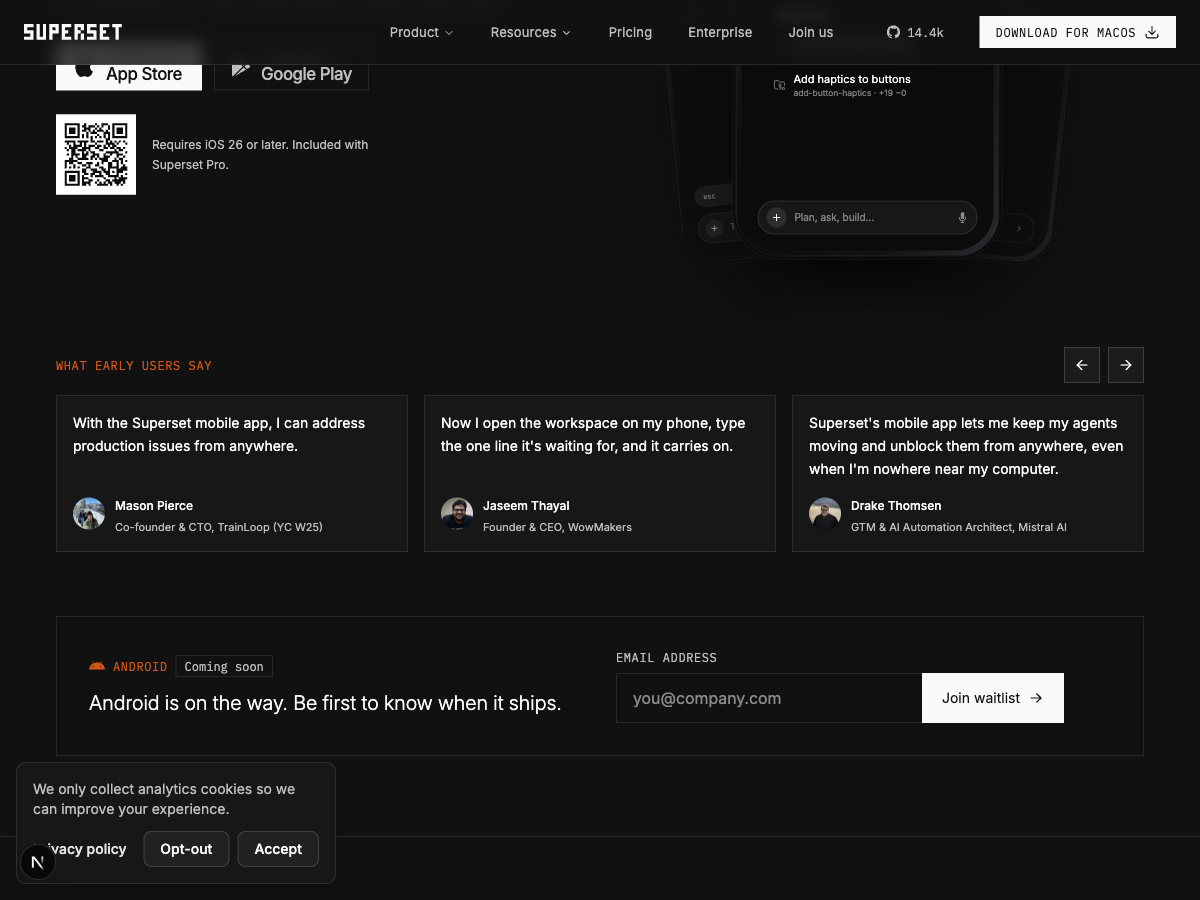
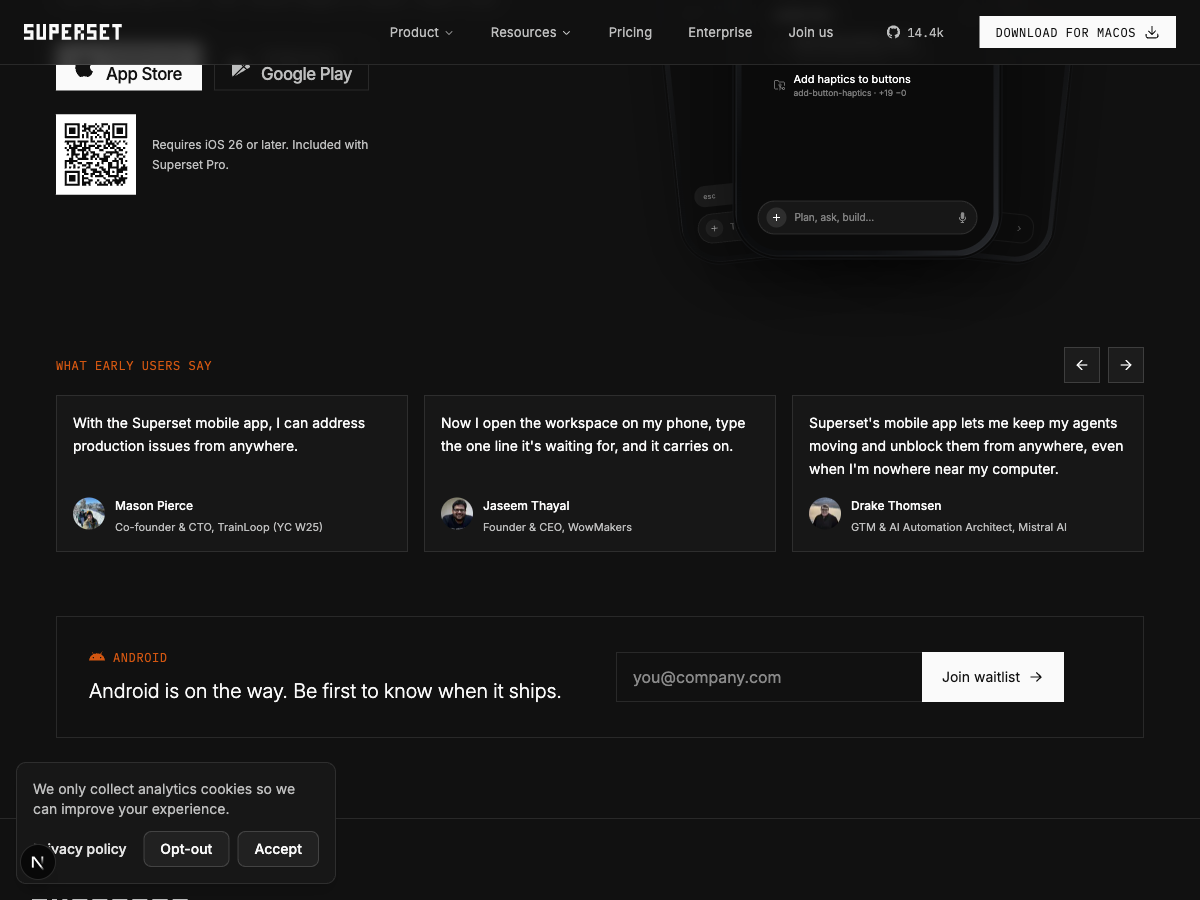
refactor(marketing): simplify mobile waitlist labels

diff --git a/apps/marketing/src/app/[lang]/mobile/page.tsx b/apps/marketing/src/app/[lang]/mobile/page.tsx
@@ -80,9 +80,6 @@ export default async function MobilePage() {
 						<h2 className="flex items-center gap-2 font-mono text-brand text-xs uppercase tracking-wider">
 							<FaAndroid aria-hidden="true" className="size-4" />
 							Android
-							<span className="border border-border px-2 py-0.5 text-muted-foreground normal-case tracking-normal">
-								<Trans>Coming soon</Trans>
-							</span>
 						</h2>
 						<p className="mt-3 font-light text-foreground text-xl">
 							<Trans>

diff --git a/apps/marketing/src/app/[lang]/mobile/components/MobileWaitlist/MobileWaitlist.tsx b/apps/marketing/src/app/[lang]/mobile/components/MobileWaitlist/MobileWaitlist.tsx
@@ -45,10 +45,7 @@ export function MobileWaitlist({ platform }: MobileWaitlistProps) {
 
 	return (
 		<form onSubmit={handleSubmit} className="w-full max-w-md">
-			<label
-				htmlFor="mobile-waitlist-email"
-				className="mb-2 block font-mono text-muted-foreground text-xs uppercase tracking-wider"
-			>
+			<label htmlFor="mobile-waitlist-email" className="sr-only">
 				<Trans>Email address</Trans>
 			</label>
 			<div className="flex flex-col gap-2 sm:flex-row sm:gap-0">
